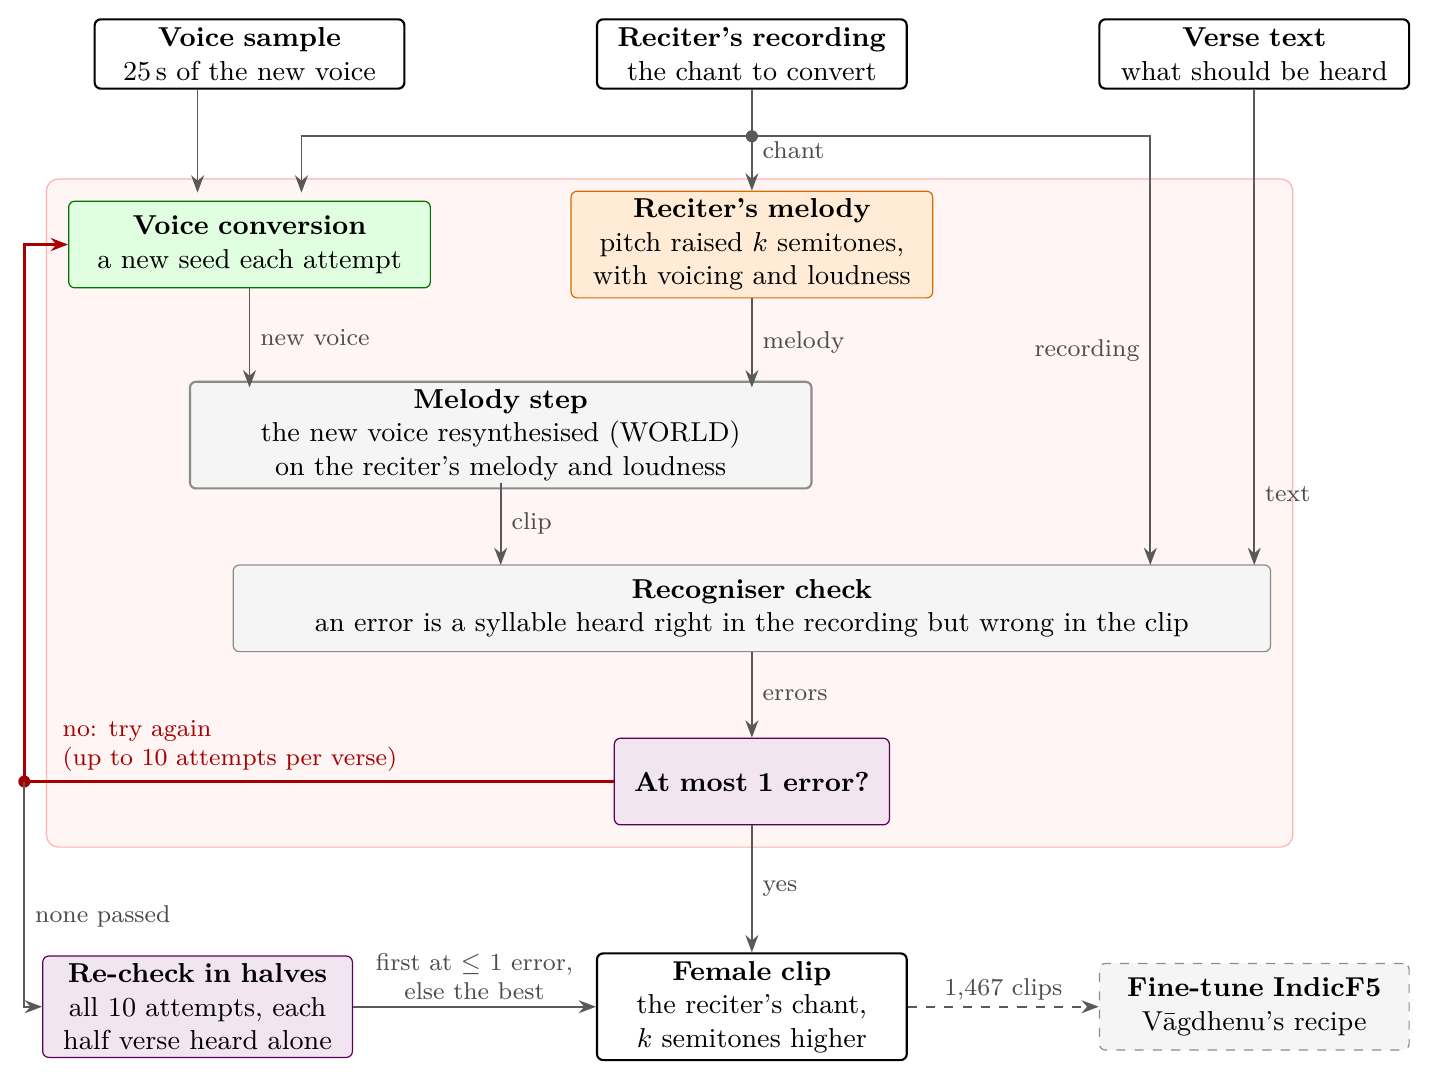
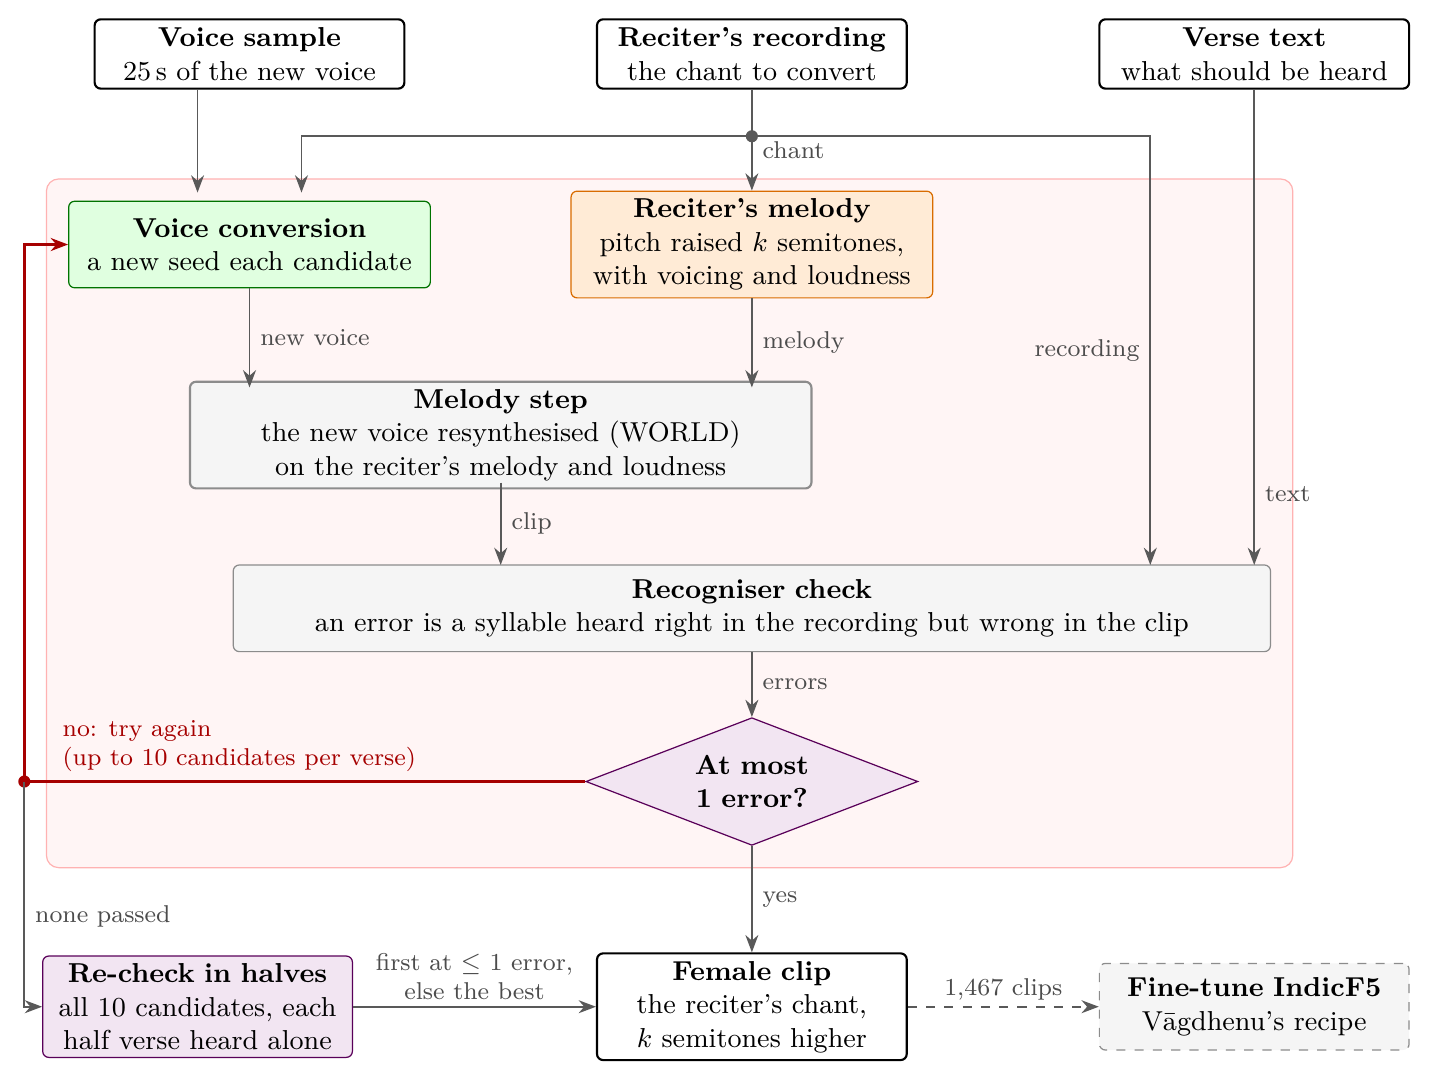
Diagram: decision as a diamond; README and diagram say "candidate"
Output files and columns keep the name "attempts"; the README notes this.

diff --git a/docs/dataset_pipeline.tex b/docs/dataset_pipeline.tex
@@ -7,7 +7,7 @@
 \usepackage{amsmath}
 \usepackage{xcolor}
 \usepackage{tikz}
-\usetikzlibrary{positioning,arrows.meta,calc,fit,backgrounds,shadows}
+\usetikzlibrary{positioning,arrows.meta,calc,fit,backgrounds,shadows,shapes.geometric}
 \begin{document}
 \begin{tikzpicture}[
   font=\footnotesize,
@@ -29,20 +29,20 @@
 \node[input] (rec)   at (58,0)  {\textbf{Reciter's recording}\\the chant to convert};
 \node[input] (text)  at (116,0) {\textbf{Verse text}\\what should be heard};
 
-% One attempt: conversion, melody step, recogniser, decision
-\node[conv, text width=40mm] (vc)     at (0,-22)  {\textbf{Voice conversion}\\a new seed each attempt};
+% One candidate: conversion, melody step, recogniser, decision
+\node[conv, text width=40mm] (vc)     at (0,-22)  {\textbf{Voice conversion}\\a new seed each candidate};
 \node[his, text width=40mm]  (world)  at (58,-22) {\textbf{Reciter's melody}\\pitch raised $k$ semitones,\\with voicing and loudness};
 \node[box, line width=0.7pt, text width=70mm] (melody) at (29,-44)
   {\textbf{Melody step}\\the new voice resynthesised (WORLD) on the reciter's melody and loudness};
 \node[box, text width=118mm] (asr) at (58,-64)
   {\textbf{Recogniser check}\\an error is a syllable heard right in the recording but wrong in the clip};
-\node[keep, text width=30mm] (decide) at (58,-84) {\textbf{At most 1 error?}};
+\node[keep, shape=diamond, aspect=2.6, text width=20mm, minimum height=0pt, inner sep=1pt, rounded corners=0pt] (decide) at (58,-84) {\textbf{At most 1 error?}};
 
 \begin{scope}[on background layer]
   \node[loopbg, fit=(vc)(melody)(asr)(decide), inner xsep=2.5mm, inner ysep=2.5mm] (loop) {};
 \end{scope}
 
-% Inputs into the attempt
+% Inputs into the candidate
 \draw[flow] (voice.south -| -6,0) -- (-6,-16);
 \draw[flow] (rec) -- node[side, pos=0.6]{chant} (world);
 \draw[flow] (58,-9.5) -| (6,-16);
@@ -57,10 +57,10 @@
 
 % Retry: next seed
 \draw[loopflow] (decide.west) -- (-26,-84) |- (vc.west);
-\node[lab, anchor=south west, text=red!65!black] at (-22,-83.3) {no: try again\\(up to 10 attempts per verse)};
+\node[lab, anchor=south west, text=red!65!black] at (-22,-83.3) {no: try again\\(up to 10 candidates per verse)};
 
-% Out of the attempts
-\node[keep, text width=34mm] (halves) at (-6,-110) {\textbf{Re-check in halves}\\all 10 attempts, each half verse heard alone};
+% Out of the candidates
+\node[keep, text width=34mm] (halves) at (-6,-110) {\textbf{Re-check in halves}\\all 10 candidates, each half verse heard alone};
 \node[input, minimum height=10mm] (clip) at (58,-110) {\textbf{Female clip}\\the reciter's chant, $k$ semitones higher};
 \node[box, dashed] (model) at (116,-110) {\textbf{Fine-tune IndicF5}\\Vāgdhenu's recipe};
 

diff --git a/README.md b/README.md
@@ -14,23 +14,23 @@ Nandinī is made in two parts:
 
 ### Making the dataset
 
-![How each clip is made: up to 10 attempts of voice conversion, melody step and recogniser check per verse](docs/dataset_pipeline.png)
+![How each clip is made: up to 10 candidates per verse, each a voice conversion, melody step and recogniser check](docs/dataset_pipeline.png)
 
-Each verse goes through up to 10 attempts (`nandini generate`):
+Each verse gets up to 10 candidates (`nandini generate`):
 
 - **Voice conversion:** a voice converter (IndicVoiceChanger) turns Vāgdhenu's recording into the voice of a 25 s
-  sample. Each attempt uses its own fixed seed, so every run makes the same conversions.
+  sample. Each candidate uses its own fixed seed, so every run makes the same conversions.
 - **Melody step:** the converter keeps the new voice but drifts from the chant's pitch, so the clip is resynthesised
   with WORLD on Vāgdhenu's pitch, raised by k semitones (one k per chant style: +6.74 and +6.58), with his voicing and
   loudness. His timing is kept as it is.
 - **Recogniser check:** [Su-śrotā](https://huggingface.co/prathoshap/sushrota-sanskrit-asr) transcribes both the clip
   and Vāgdhenu's recording. An **error** is a syllable it hears right in his recording and wrong in the clip, so its
   own mistakes on his chant aren't counted against the clip.
-- **Keep or retry:** the first attempt with at most 1 error is kept; if none of the 10 gets there, the one with the
+- **Keep or retry:** the first candidate with at most 1 error is kept; if none of the 10 gets there, the one with the
   fewest errors.
 - **Re-check in halves** (`nandini recheck-halves`): on long verses the recogniser can lose its place and misread a
-  whole stretch of a good clip. So each verse that missed has its 10 attempts checked again, with each half verse
-  transcribed on its own. If an attempt now has at most 1 error, the first such attempt replaces the kept one.
+  whole stretch of a good clip. So each verse that missed has its 10 candidates checked again, with each half verse
+  transcribed on its own. If a candidate now has at most 1 error, the first such candidate replaces the kept one.
 
 All 1,467 verses are kept, so the dataset has the same verses, styles and meters as Vāgdhenu's: 1,298 (88.5%) with at
 most 1 syllable wrong.
@@ -92,7 +92,7 @@ Everything runs through one command, `nandini`, with every setting in one file, 
 | `manifests/pitch_shift_verses.csv` | the 61 verses the target voice read to measure k |
 | `manifests/inventory_sample_clips.csv` | a 61-clip sample, stratified by meter within each style, for the inventory |
 | `manifests/training_check_verses.csv` | the 10 verses the checks after training render (seed 20261109) |
-| `manifests/released_kept.csv` | the kept attempt of every verse in the released dataset, as training used it |
+| `manifests/released_kept.csv` | the kept candidate of every verse in the released dataset, as training used it |
 | `manifests/female_bank_overrides.csv` | the bank entries changed by hand, with reasons |
 | `manifests/test_verses.csv` | 60 new verses for evaluation, outside the dataset, from the Digital Corpus of Sanskrit (CC BY 4.0; [Test verses](#test-verses)) |
 | `manifests/test_verses_pool.csv`, `test_verses_report.md` | every candidate verse with its checks, and how the 60 were drawn |
@@ -173,7 +173,7 @@ The same code, seeds and package versions give the same choices and nearly the s
 identical files. Conversions differ slightly between GPUs, and between a GPU and Apple silicon. Even the melody step,
 which runs on the CPU, differs between Linux and macOS: re-making 610 clips on a Mac from the same conversions changed
 the level of 21 of them by more than 0.1 dB, with the same package versions. So a rerun on other hardware can keep a
-different attempt for some verses, or count an error more or fewer. Results on the same machine and environment are
+different candidate for some verses, or count an error more or fewer. Results on the same machine and environment are
 identical. The released audio was made on an NVIDIA A40 under Linux.
 
 ## Getting the recordings
@@ -217,7 +217,7 @@ nandini generate
 By default it runs every verse (`manifests/all_clips.csv`) into `out/`, with the settings in `nandini/config.py`.
 `nandini config` prints them.
 
-Attempt j converts the recording with seed 1000 · j + the verse's index, where the index is the verse's fixed position
+Candidate j converts the recording with seed 1000 · j + the verse's index, where the index is the verse's fixed position
 in the whole dataset. It then applies the melody step, which:
 - uses Vāgdhenu's pitch raised k semitones, with its voicing;
 - follows Vāgdhenu's frame energy, but caps any frame's boost at 6 dB above the clip's typical gain, which stops near-silent
@@ -227,8 +227,8 @@ in the whole dataset. It then applies the melody step, which:
 Outputs:
 - `out/final/<style>__<clip>.wav`: the kept clip for each verse.
 - `out/settings_part*.json`: the settings the run used.
-- `out/attempts_part*.csv`: every attempt, with its seed and errors.
-- `out/kept_part*.csv`: one row per verse, with the kept attempt, its errors, the attempts used, and whether it met the
+- `out/attempts_part*.csv`: every candidate, with its seed and errors. The output files and columns call a candidate an *attempt* (`attempts`, `kept_j`).
+- `out/kept_part*.csv`: one row per verse, with the kept candidate, its errors, the candidates used, and whether it met the
   bar.
 
 Every conversion and melody-step file is kept under `out/conversions/` and `out/melody/`.
@@ -239,13 +239,13 @@ Then re-check the verses that missed:
 nandini recheck-halves
 ```
 
-Each verse that missed the bar has its attempts on disk checked again in halves (below), against Vāgdhenu's recording
-checked the same way. The selection rule runs again on these scores: if an attempt now has at most 1 error, the first
-such attempt is kept instead; otherwise the verse keeps what `generate` kept. Verses that met the bar aren't touched.
-- `out/recheck_halves.csv`: every recording and attempt re-checked, with its errors in halves.
+Each verse that missed the bar has its candidates on disk checked again in halves (below), against Vāgdhenu's recording
+checked the same way. The selection rule runs again on these scores: if a candidate now has at most 1 error, the first
+such candidate is kept instead; otherwise the verse keeps what `generate` kept. Verses that met the bar aren't touched.
+- `out/recheck_halves.csv`: every recording and candidate re-checked, with its errors in halves.
 - `out/kept_rechecked.csv`: the final kept list, one row per verse, with `scoring` (`whole` or `halves`) and `generate`'s choice
   beside it (`whole_kept_j`, `whole_errors`, `whole_counted`). Later commands read this file when it's there.
-- `out/final/`: the clip is replaced where the kept attempt changed.
+- `out/final/`: the clip is replaced where the kept candidate changed.
 
 Options:
 - `--part i/P` splits the run into P parallel parts.
@@ -255,7 +255,7 @@ Options:
   scored whole clips and re-checked only the verses that missed.
 
 **Scoring in halves:** on some long verses Su-śrotā drops a stretch of a whole clip (verse 1343 reads with 16 or more
-errors whole and 1 in halves), which wrongly marks good attempts as bad. In halves, every recording and attempt is cut
+errors whole and 1 in halves), which wrongly marks good candidates as bad. In halves, every recording and candidate is cut
 at the half-verse pause, each half is transcribed alone, and the two transcripts are
 joined and scored against the whole verse as before. The pause is found from Vāgdhenu's recording (the start of
 syllable n // 2, to 10 ms) and moved to the quietest 20 ms nearby in each clip. Errors, the bar and the rule are unchanged. It
@@ -263,23 +263,23 @@ costs two transcriptions per clip, plus one timed transcription of Vāgdhenu's r
 
 **How the released audio was made:**
 - **Hardware:** one A40, with 4 parts in parallel.
-- **Run size:** 4,766 attempts for 1,467 verses (3.25 per verse) in about 19 hours.
+- **Run size:** 4,766 candidates for 1,467 verses (3.25 per verse) in about 19 hours.
 - **Result:** 1,212 verses (82.6%) met the bar, 492 of them with no errors; the other 255 are kept with their best of
   10.
-- **Error rate:** 2.19% of counted syllables are wrong. This count comes from the same ASR that chose each attempt, so
+- **Error rate:** 2.19% of counted syllables are wrong. This count comes from the same ASR that chose each candidate, so
   it is optimistic.
-- **Re-check in halves:** the 255 verses that missed were checked again in halves, on the same 10 attempts. 86 then had
-  an attempt with at most 1 error, and took the first such attempt (55 a different attempt, 31 the same one); the
+- **Re-check in halves:** the 255 verses that missed were checked again in halves, on the same 10 candidates. 86 then had
+  a candidate with at most 1 error, and took the first such candidate (55 a different candidate, 31 the same one); the
   other 169 kept their best of 10. Result: 1,298 verses (88.5%) at the bar, and 1.97% of counted syllables wrong (a
   mix of whole and halves scoring).
 - **The released kept list:** `manifests/released_kept.csv`, in the format of `out/kept_rechecked.csv`. Training used it. A
-  rerun on other hardware can keep a different attempt for some verses ([Same results, not identical
+  rerun on other hardware can keep a different candidate for some verses ([Same results, not identical
   audio](#same-results-not-identical-audio)), so `--kept manifests/released_kept.csv` trains on exactly the released
   choice.
 
 **Why at most 1 error, not 0:** Su-śrotā misreads about 4.7% of syllables on Vāgdhenu's own recordings, so a single
 error in a verse (about 2% of a typical 46-syllable verse) is within the judge's own noise. On the 61-clip sample, a
-0-error rule needed about 1.7 times the attempts and lowered the error rate only from 2.1% to 1.7%.
+0-error rule needed about 1.7 times the candidates and lowered the error rate only from 2.1% to 1.7%.
 
 ## Checking the dataset
 
@@ -367,7 +367,7 @@ nandini pitch-shift report               # k per style with bootstrap intervals 
 **The selection rule and the melody step**, on the inventory's clips (`nandini inventory convert` and `score`):
 
 ```bash
-nandini selection simulate               # the rule on the inventory's attempts -> inventory/selection/
+nandini selection simulate               # the rule on the inventory's candidates -> inventory/selection/
 nandini selection threshold              # stopping at ≤ 1 error against 0, and Su-śrotā's misreads on Vāgdhenu
 nandini melody-checks timing             # voicing-based timing check (inconclusive on chant; see its report)
 nandini melody-checks voicing            # where the melody step imposes Vāgdhenu's voicing
@@ -594,7 +594,7 @@ nandini test-verses    # rebuilds manifests/test_verses*.csv (training environme
 
 Every setting is in `nandini/config.py`, with a comment on each:
 - the pinned dataset and model revisions; diffusion steps (30) and guidance (0.7);
-- at most 10 attempts per verse, their seeds (seed step 1000), and at most 1 error to stop;
+- at most 10 candidates per verse, their seeds (seed step 1000), and at most 1 error to stop;
 - k per style (+6.74 semitones for style_a, +6.58 for style_b; each is the gap between Vāgdhenu's mean log pitch and
   the female voice's own reading of the same verses);
 - the WORLD frame step and pitch range, and the energy boost cap (6 dB);
@@ -625,7 +625,7 @@ About 6 seconds, offline, with no models loaded. They check that:
 - the training commands say what to make when the training environment is missing;
 - the check verses are the seed-20261109 draw, and a bank cut keeps the syllables that start inside it.
 
-A full check needs the models and Seed-VC: `nandini generate --indices 389 --out check ...` should keep attempt 0 with 1 error, as in the released run. On the same machine and environment the audio is identical sample for sample; across GPUs, conversions can differ slightly.
+A full check needs the models and Seed-VC: `nandini generate --indices 389 --out check ...` should keep candidate 0 with 1 error, as in the released run. On the same machine and environment the audio is identical sample for sample; across GPUs, conversions can differ slightly.
 
 ## The voice sample
 
